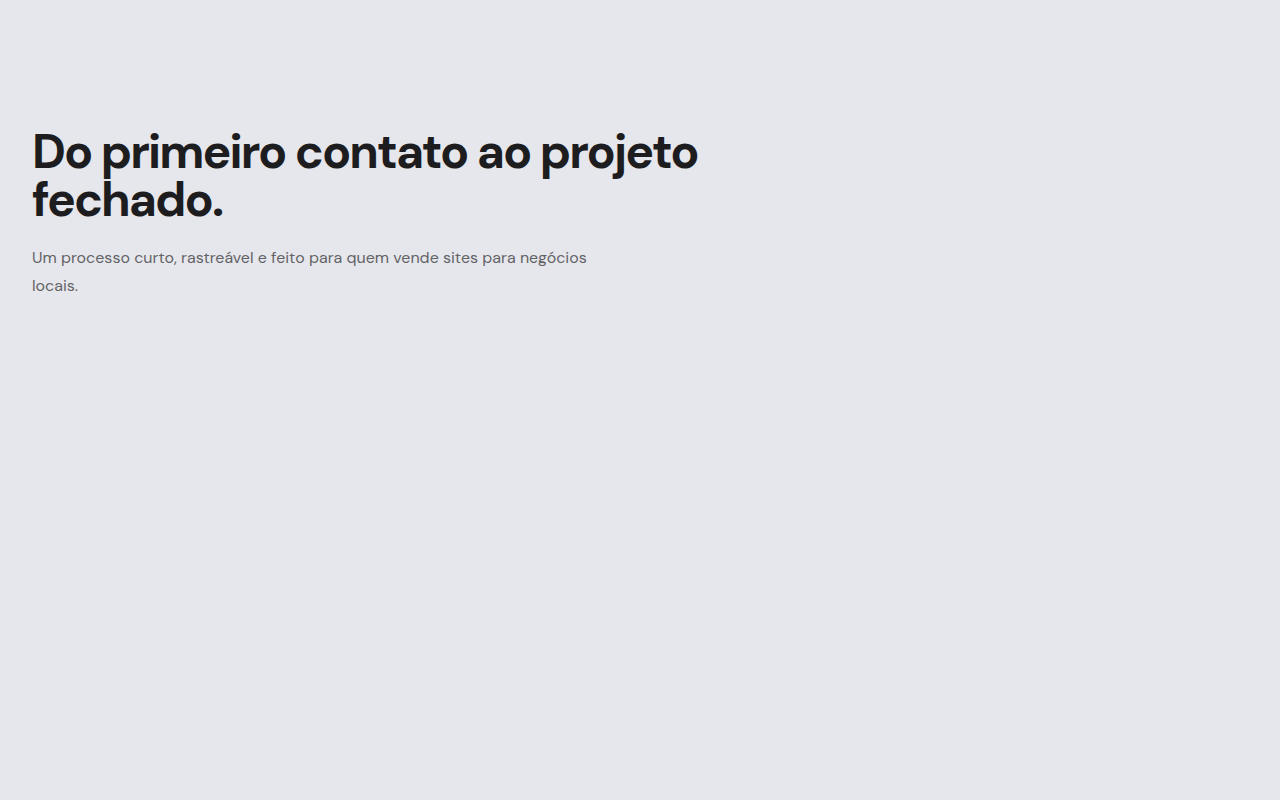
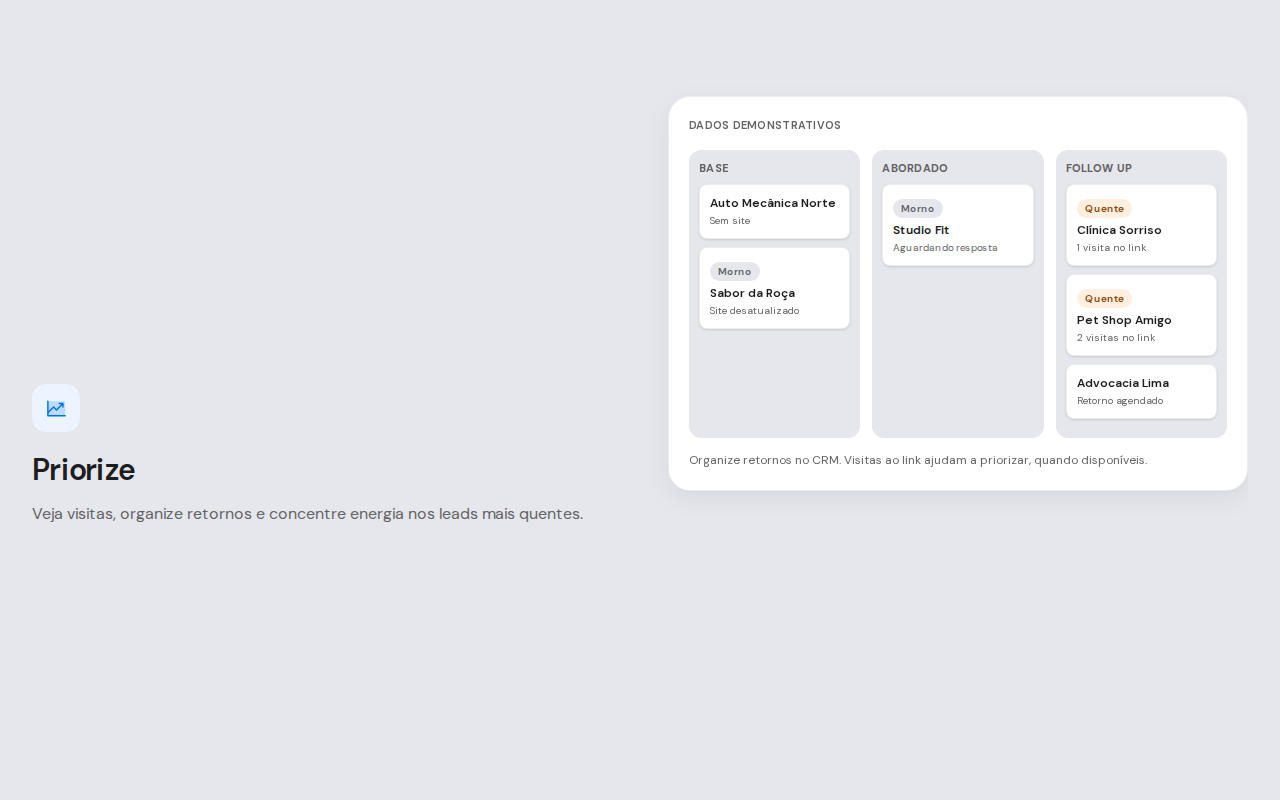
fix(docs): recaptura jornada e licença pública MIT no README

diff --git a/README.md b/README.md
@@ -102,6 +102,6 @@ Planejamento amplo: [`plans/blueprint-briaspas-scale.md`](./plans/blueprint-bria
 
 ## Repositório e licença
 
-Código: https://github.com/Asapx380/briaspas-scale
+Repositório **público** no GitHub: https://github.com/Asapx380/briaspas-scale
 
-Projeto privado em evolução — use a demonstração pública para avaliar o produto; não inclua dados reais de clientes em issues ou PRs.
+Licença **MIT** — veja [`LICENSE`](./LICENSE). O produto continua em evolução; use a demonstração pública para avaliar e não inclua dados reais de clientes em issues ou PRs.
